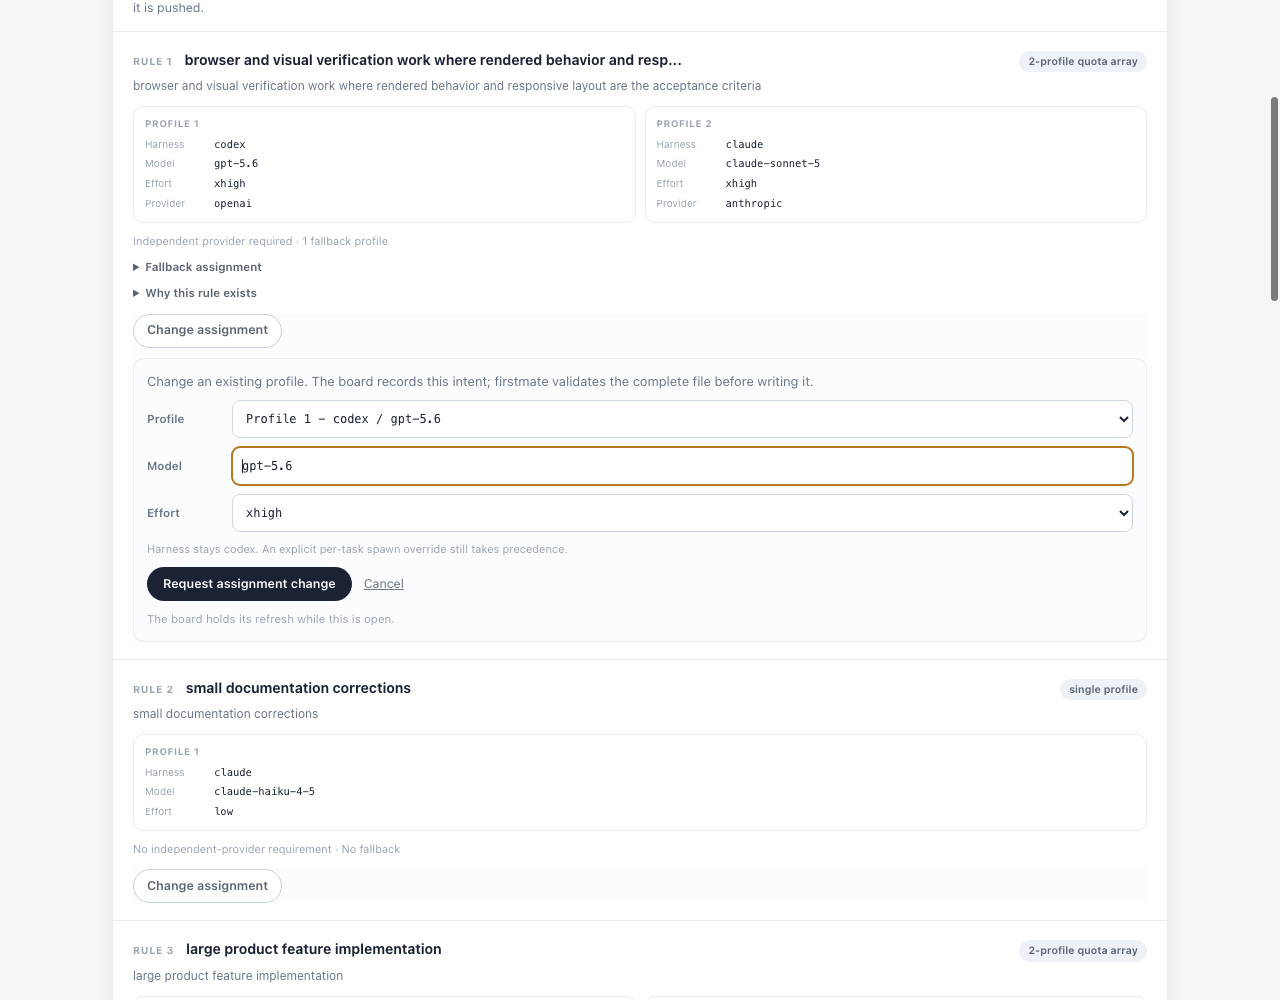
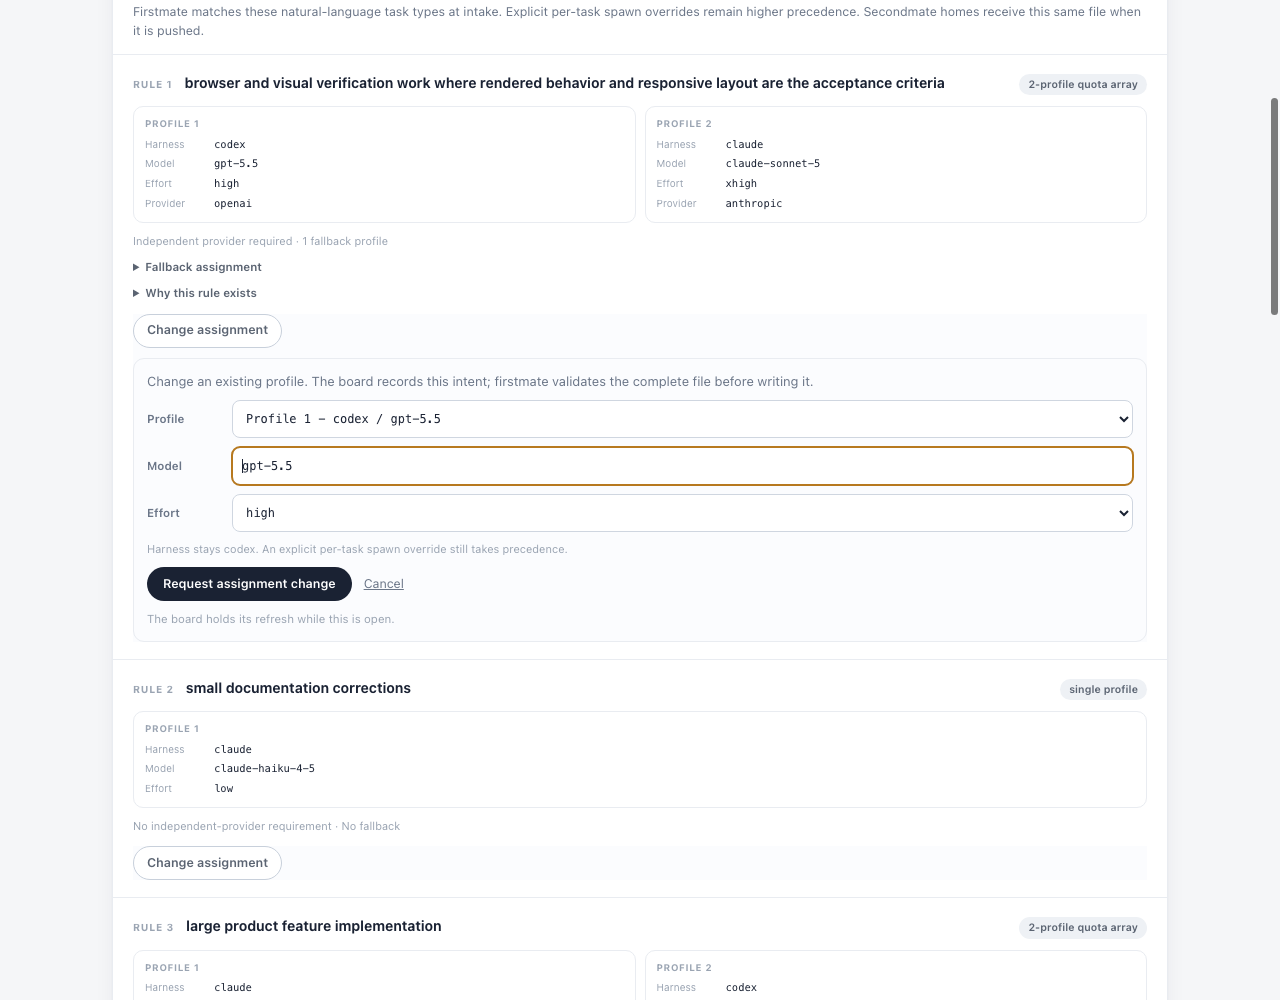
Avoid duplicate dispatch rule labels

diff --git a/docs/evidence/mission-control/README.md b/docs/evidence/mission-control/README.md
@@ -78,6 +78,7 @@ The 390px inspection returned `{"w":390,"h":844,"overflow":false}`, and the real
 The dispatch evidence was verified on 2026-08-11 with Chrome and `chrome-devtools-axi 0.1.27` against a synthetic 13-rule dispatch file served through the live board-reply service.
 The browser inspection used a 1280 by 1000 desktop viewport and `chrome-devtools-axi emulate --viewport '390x844x3,mobile,touch'` for the phone viewport.
 Both widths reported no horizontal overflow, and the 390px inspection measured each rule from 19px to 371px and each open edit form from 51px to 339px.
+Each rule's complete task type appears once as its wrapping heading; the recaptured short-rule evidence confirms there is no duplicate description line.
 Opening the same control-enabled file through `file://` reported zero visible Dispatch editors while leaving the complete read-only Dispatch section visible.
 Every mobile input and selector measured 44px high, the submit control measured 44px high, and the adjacent Cancel control retained its separate text-link treatment.
 A real board request changed only the selected array profile, the shared validator accepted `codex:xhigh`, and the regenerated board displayed the new model and effort.
